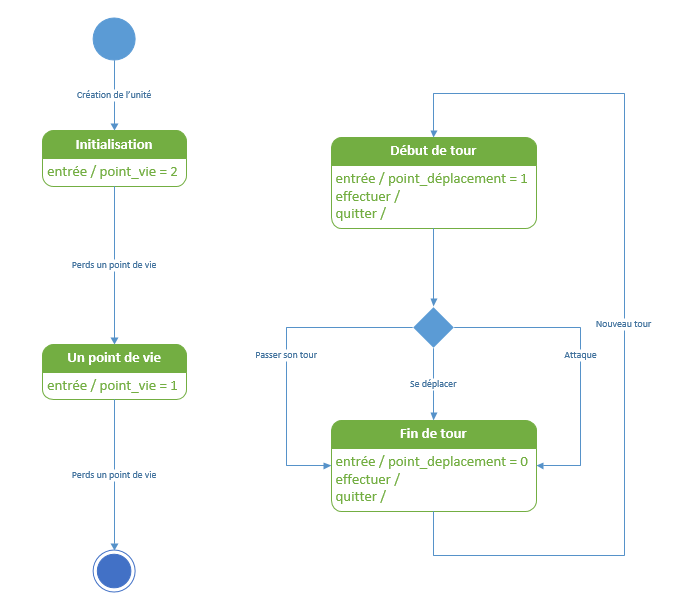
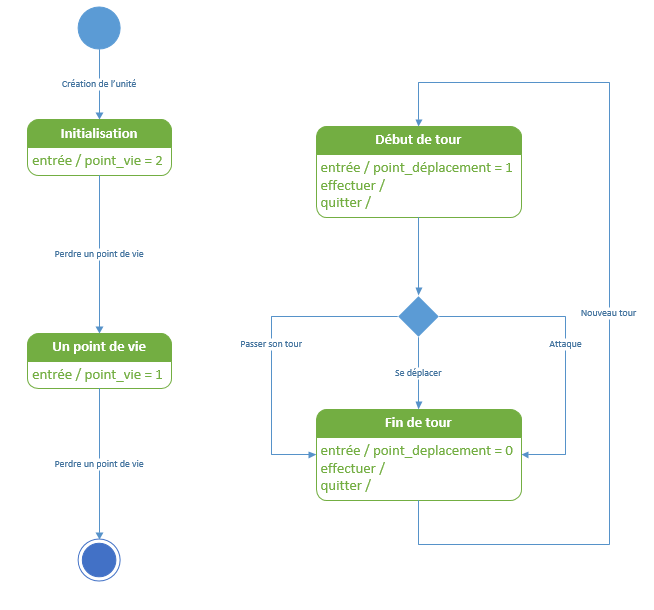
Mise à jour du diagramme d'état-transitions et correction des fautes du rapport

diff --git a/Rapports/Specification/RapportSpecificationV2.tex b/Rapports/Specification/RapportSpecificationV2.tex
@@ -142,7 +142,7 @@ Lorsqu’un joueur peut jouer (c.-à-d. une fois par tour), il peut déplacer to
 \section{Analyse}
 \label{debut}
 \subsection{Fonctionnalités globales}
-Au lancement du jeu, le joueur a la possibilité soit de créer une nouvelle partie soit de charger une partie existante. Le diagramme de cas d'utilisation à la Figure~\ref{fig:jeuglobal} illustre ces possibilités.
+Au lancement du jeu, le joueur a la possibilité soit de créer une nouvelle partie soit de charger une partie existante. Le diagramme de cas d'utilisation présenté Figure~\ref{fig:jeuglobal} illustre ces possibilités.
 
 \begin{figure}[H]
     \centering
@@ -154,7 +154,7 @@ Au lancement du jeu, le joueur a la possibilité soit de créer une nouvelle par
 \subsection{Lancement d'une partie}
 
 La création ou le chargement d'une partie est illustré de façon plus précise à la Figure~\ref{fig:cas_creerpartie}.
-Lorsque l'on crée une partie, le joueur~A commence par choisir son nom de joueur puis son peuple. Ensuite le joueur~B fait de même et procède au choix de la taille de la carte, avant de lancer la partie. Le joueur~B est donc plus spécialisé que le joueur~A. Cette suite d'interactions est montrée à la Figure~\ref{fig:inter_creerpartie}
+Lorsque l'on crée une partie, le joueur~A commence par choisir son nom de joueur puis son peuple. Ensuite le joueur~B fait de même et procède au choix de la taille de la carte, avant de lancer la partie. Le joueur~B est donc plus spécialisé que le joueur~A. Cette suite d'interactions est représenté Figure~\ref{fig:inter_creerpartie}.
 
 Enfin, un diagramme de séquence, Figure~\ref{fig:seq_creerpartie}, nous permet de représenter les communications entre les joueurs et le jeu ainsi que de donner une représentation temporelle des interactions entre les objets. Ce diagramme de séquence nous permet de représenter la création d'une partie à partir des données (noms et peuples) entrées par les joueurs.
 
@@ -211,7 +211,7 @@ Au cours d'un tour de jeu, le joueur peut décider de combattre le joueur advers
 \subsection{Les unités}
 Nous avons utilisé un diagramme d'état-transitions, Figure~\ref{fig:trans_unite}, afin de montrer le cycle de vie d'une unité et ses différents états possibles.
 \`A sa création, l'unité possède deux points de vie. 
-Au début d'un tour, l'unité possède un point de déplacement. Elle a alors la possibilté de se déplacer, d'attaquer ou de passer son tour. \`A la fin de l'action, l'unité perd son point de déplacement et son tour est terminé.
+Au début d'un tour, l'unité possède un point de déplacement. Elle a alors la possibilité de se déplacer, d'attaquer ou de passer son tour. \`A la fin de l'action, l'unité perd son point de déplacement et son tour est terminé.
  \todo{peut etre à refaire en fonction du nouveau diagramme}
 Lorsqu'elle a perdu ses deux points de vie, l'unité a été vaincue.
 
@@ -257,7 +257,7 @@ Lors de la création d'une partie, les joueurs ont le choix entre trois tailles 
 Pour la modélisation du jeu, nous utiliserons plusieurs \textit{Fabriques}. 
 Nous en utiliserons notamment une pour fabriquer les cases. Il existe cinq types de cases : montagne, plaine, désert, eau et forêt.
 La fabrique nous permettra de créer aléatoirement des types des cases différents sur la carte.
-Son utilisation nous permettra également de faire évoluer facilement les types de case par simple ajout de classes concrètes.
+Son utilisation nous permettra également de faire évoluer facilement les types de cases par simple ajout de classes concrètes.
 
 \todo{ajout diagramme}
 
@@ -274,7 +274,7 @@ Il existe cinq types de cases dans Small World. Pour ne pas instancier un grand 
 
 \subsection{Fabrique - Gestion des peuples et des unités}
 
-Lors de la création d'une partie, le joueur choisit entre trois peuples. Le jeu devra donc manipuler les unités sans savoir s'il s'agit de vikings, gaulois ou nains. Le patron de conception \textsc{fabrique} est implémenté afin de résoudre ce problème, et de définir une interface pour la création de peuples. En outre, il sera maintenant facile de rajouter un nouveau peuple. Ces éléments sont présentés à la Figure~\ref{fig:class_fabrique}.
+Lors de la création d'une partie, le joueur choisit entre trois peuples. Le jeu devra donc manipuler les unités sans savoir s'il s'agit de vikings, gaulois ou nains. Le patron de conception \textsc{fabrique} est implémenté afin de résoudre ce problème, et de définir une interface pour la création de peuples. En outre, il sera maintenant facile de rajouter un nouveau peuple. Ces éléments sont présentés Figure~\ref{fig:class_fabrique}.
 Les unités étant d'un seul type (il n'y pas d'unité spécialisée au sein d'un peuple), il n'y a pas besoin de fabrique pour les unités. On utilise une classe abstraite pour définir les éléments communs aux unités des différents peuples. 
 
 \begin{figure}[H]
